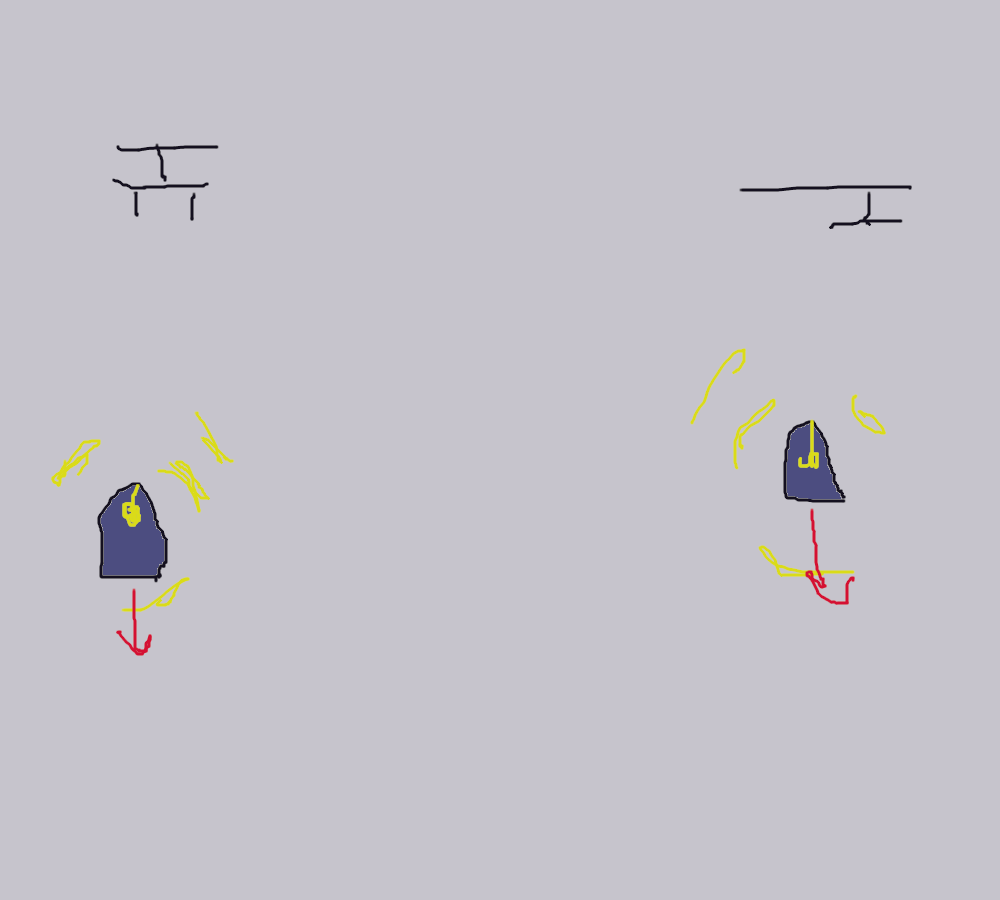
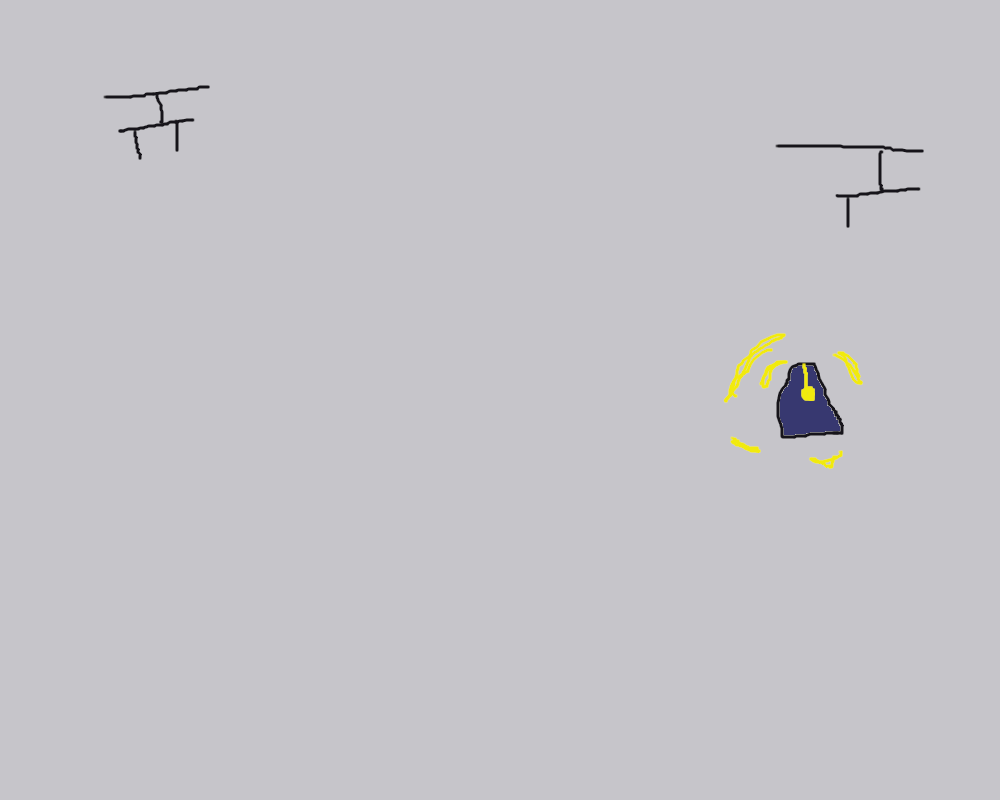
basic_gravity_and_floor_mech

diff --git a/main.py b/main.py
@@ -1,7 +1,7 @@
 import pygame
 
 pygame.init()
-main_screen=pygame.display.set_mode((800,400)) #width,height
+main_screen=pygame.display.set_mode((1000,800)) #width,height
 pygame.display.set_caption("Pixel_Runner")
 
 #CLASSES
@@ -11,20 +11,54 @@ class Player(pygame.sprite.Sprite):
         self.player_walk=pygame.image.load("resources/Player/player_stand.png").convert_alpha()
 
         self.image= self.player_walk #jakbys zmienial to napisz
-        self.rect=self.image.get_rect(midbottom=(100,100)) #jakbys zmienial to napisz
+        self.rect=self.image.get_rect(midbottom=(500,200)) #jakbys zmienial to napisz
 
+        #basic_parameters
+        self.x_speed=0
+        self.y_speed=0
+        self.current_height=0
+        self.max_height=0
+        floor_under_legs_status=True #if true player stands on floor and can jump
+
+    def player_input(self):
+        keys=pygame.key.get_pressed()
+        if (keys[pygame.K_UP] or keys[pygame.K_SPACE]) and keys[pygame.K_DOWN]==False and keys[pygame.K_LEFT]==False and keys[pygame.K_RIGHT]==False:
+            self.y_speed=-10
+        if keys[pygame.K_UP]==False and keys[pygame.K_DOWN] and keys[pygame.K_LEFT]==False and keys[pygame.K_RIGHT]==False:
+            self.y_speed=+10
+        if keys[pygame.K_UP]==False and keys[pygame.K_DOWN]==False and keys[pygame.K_LEFT] and keys[pygame.K_RIGHT]==False:
+            self.rect.x-=5 
+        if keys[pygame.K_UP]==False and keys[pygame.K_DOWN]==False and keys[pygame.K_LEFT]==False and keys[pygame.K_RIGHT]:
+            self.rect.x+=5
+
+
+
+    def gravity_function(self):
+        if self.rect.bottom >= 700 and self.current_height==0:
+            self.rect.bottom=700
+        
+        if self.y_speed<20:
+            self.y_speed+=0.2
+
+        self.rect.centerx+=self.x_speed
+        self.rect.centery+=self.y_speed
+
+    def update(self):
+        self.player_input()
+        self.gravity_function()
 
 #GLOBAL VARIABLES
 main_clock=pygame.time.Clock()
 new_Variable=100
 game_status="game_on" #intro, game_on, outro
 
-sky_surface=pygame.image.load('resources/backgrounds/Sky.png').convert_alpha()
-floor_surface=pygame.image.load('resources/backgrounds/ground.png').convert_alpha()
+#BACGROUND_AND_FLOOR_TEXTURES
+start_background=pygame.image.load('resources/backgrounds/start_background.png').convert_alpha()
+start_floor=pygame.image.load('resources/floors/start_floor.png').convert_alpha()
 
 #GROUPS
-player=pygame.sprite.GroupSingle()
-player.add(Player())
+player_group=pygame.sprite.GroupSingle()
+player_group.add(Player())
 
 
 while True:
@@ -32,14 +66,21 @@ while True:
         if event.type==pygame.QUIT:
             pygame.quit()
             exit()
-    if game_status == "game_on":
-        
-        main_screen.blit(sky_surface,(0,0))
-        main_screen.blit(floor_surface,(0,300))
 
-        player.draw(main_screen)
-        player.update()
-       
+    if game_status == "game_on":
+
+        #module reposnsible for background and steps display
+        main_screen.blit(start_background,(0,0))
+        main_screen.blit(start_floor,(0,700))
+
+        #module responsible for player animation and movement display 
+        player_group.draw(main_screen)
+        player_group.update()
+
+    elif game_status == "intro":
+        pass
+    elif game_status == "outro":
+        pass  
 
     pygame.display.update()
-    main_clock.tick(60) #maximum frameratxxxx
+    main_clock.tick(60) #maximum framerate 60tics = 1 second
